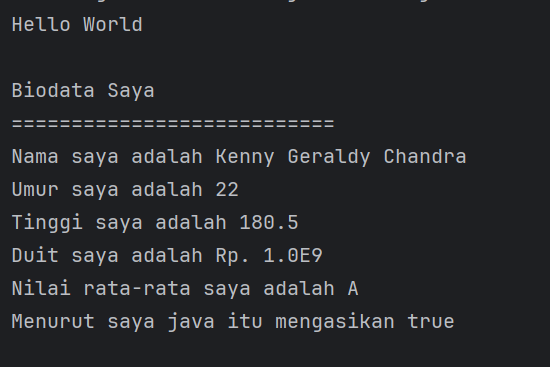
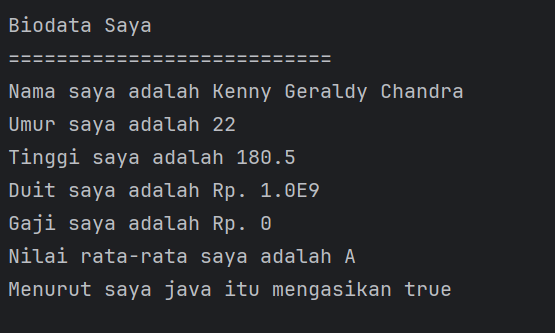
add long in data primitif

Changed region(s): [[0.0, 0.1502, 0.8655, 0.8108], [0.0, 0.8408, 0.8345, 0.9009], [0.0, 0.03, 0.2782, 0.1201]]

diff --git a/pre-test/day-1/HelloWorld/src/Main.java b/pre-test/day-1/HelloWorld/src/Main.java
@@ -8,6 +8,9 @@ public class Main {
         String myName;
         myName = "Kenny Geraldy Chandra";
 
+        long gaji;
+        gaji = 0;
+
         double duit;
         duit = 1000000000;
 
@@ -28,6 +31,7 @@ public class Main {
         System.out.println("Umur saya adalah "+umur);
         System.out.println("Tinggi saya adalah "+tinggi);
         System.out.println("Duit saya adalah Rp. "+duit);
+        System.out.println("Gaji saya adalah Rp. "+gaji);
         System.out.println("Nilai rata-rata saya adalah "+grade);
         System.out.println("Menurut saya java itu mengasikan "+isJavaFun);
 
